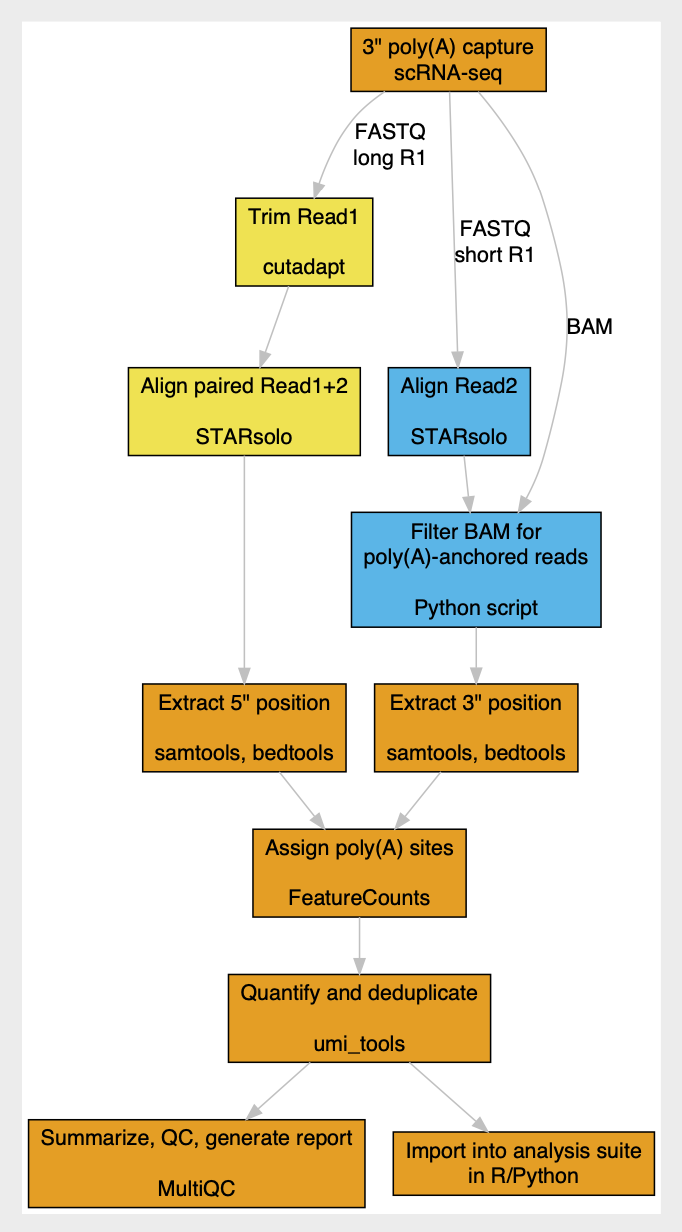
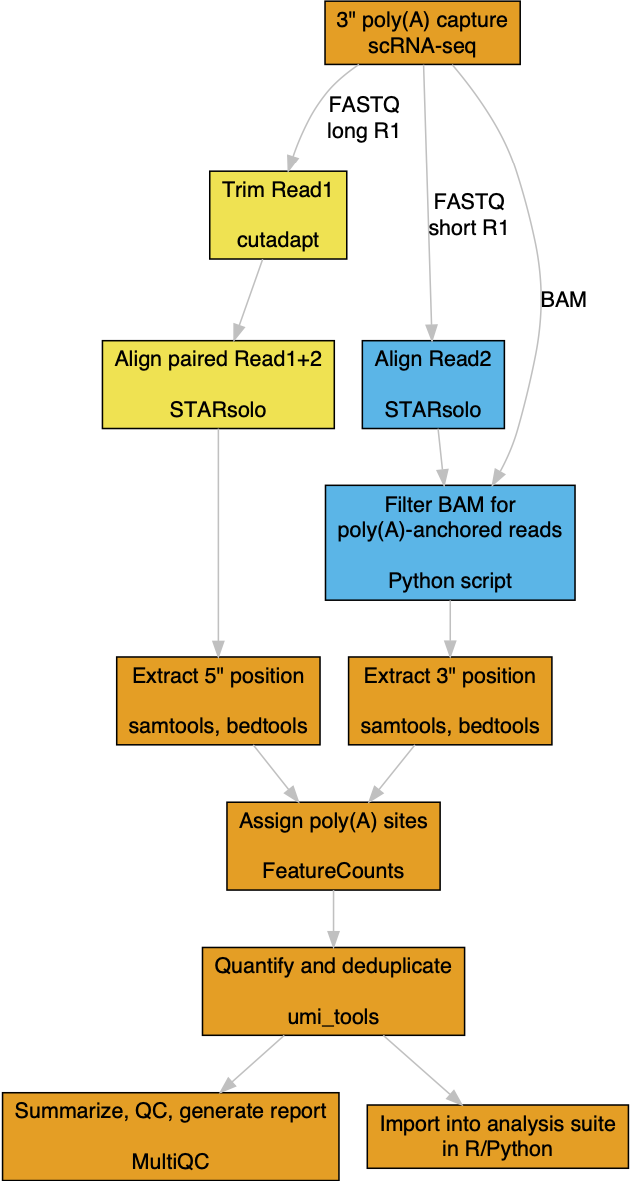
readme update

Changed region(s): [[0.0, 0.0, 1.0, 1.0], [0.813, 0.2439, 0.9334, 0.2743]]

diff --git a/README.md b/README.md
@@ -5,13 +5,46 @@
 ![](https://img.shields.io/badge/dynamic/json.svg?label=Downloads&url=https://raw.githubusercontent.com/raysinensis/clone_counts_public/main/scraps.json&query=downloads&colorB=brightgreen)
 <!-- badges: end -->
 
-scraps (**S**ingle **C**ell **R**NA **P**rocessing **S**oftware) extracts
-mRNA polyadenylation sites from "TVN"-primed single-cell RNA-seq libraries.
+### scraps extracts mRNA polyadenylation sites from "TVN"-primed single-cell RNA-seq libraries.
 
-Currently implemented as a <a href="https://snakemake.readthedocs.io/en/stable/">Snakemake</a> pipeline for 
+scraps (**S**ingle **C**ell **R**N**A** **P**rocessing **S**oftware) is currently implemented as a <a href="https://snakemake.readthedocs.io/en/stable/">Snakemake</a> pipeline for 
 10X Genomics 3' end v2/3 libraries (and other platforms with similar library structure, including Drop-seq, 
-Microwell-seq, and BD Rhapsody), scraps will eventually be expanded for analyzing a range of RNA processing 
+Microwell-seq, and BD Rhapsody). It will eventually be expanded for analyzing a range of RNA processing 
 changes in single-cell RNA-seq data.
+
+<img src="inst/flow.png" width="230" align="left" style="margin-right: 50px;margin-top:10px;margin-bottom:10px;">
+
+---
+
+## Example usage
+
+scraps requires the following as input (defined in config.yaml and sample_fastqs.tsv):
+
+  - 10X Genomics 3' v2/3 single-cell FASTQs or other platforms (with names "_R1.fastq.gz"" and "_R2fastq.gz"")
+  - A STAR genome index (must be generated with STAR 2.7.4a and above)
+  - A featureCounts reference (SAF-formatted <a href="http://exon.umdnj.edu/polya_db/">polya_db</a>, hg38 and mm10 files are included in ref subdirectory)
+
+To run test data, simply execute:
+```
+Snakemake --snakefile Snakefile \
+  --configfile config.yaml \
+  --resources total_impact=5 \
+  --keep-going
+```
+
+---
+
+## Supported scRNA-seq platforms
+| Platform | Lib diagram | Setting name | Test data |
+| :--------|:------------| :------------| :---------|
+| 10x Chromium V3 | [16 + 12 + 30](https://teichlab.github.io/scg_lib_structs/methods_html/10xChromium3.html) | chromiumV3 | ✓ |
+| 10x Chromium V2 | [16 + 10 + 30](https://teichlab.github.io/scg_lib_structs/methods_html/10xChromium3.html) | chromiumV2 | ✓ |
+| Drop-seq | [12 + 8 + 30](https://teichlab.github.io/scg_lib_structs/methods_html/Drop-seq.html) | dropseq | ✓ |
+| Microwell-seq | [6x3 + 6 + 30](https://teichlab.github.io/scg_lib_structs/methods_html/Microwell-seq.html) | microwellseq | ✓ |
+| BD Rhapsody | [9x3 + 8 + 18](https://teichlab.github.io/scg_lib_structs/methods_html/BD_Rhapsody.html) | bd | |
+| inDrop | [8 + 6 + 18](https://teichlab.github.io/scg_lib_structs/methods_html/inDrop.html) | indrop | |
+
+---
 
 ## Dependencies
 
@@ -25,17 +58,5 @@ scraps requires the following executables in your PATH:
   - <a href="http://subread.sourceforge.net">Subread</a> (developed with version 1.6.2)
   - <a href="https://multiqc.info">MultiQC</a> (developed with version 1.9)
 
-## Example usage
-
-scraps requires the following as input (defined in config.yaml):
-
-  - 10X Genomics 3' v2/3 single-cell FASTQs 
-  - Optional cell barcode whitelists for each sample, in FASTQ folder  (can be auto-generated in UMI-tools format, single column lists also compatible)
-  - A STAR genome index (compatible with cellranger indices <a href="https://cf.10xgenomics.com/supp/cell-exp/refdata-gex-GRCh38-2020-A.tar.gz">GRCh38</a> and <a href="https://cf.10xgenomics.com/supp/cell-exp/refdata-gex-mm10-2020-A.tar.gz">mm10</a>)
-  - A featureCounts reference (SAF-formatted <a href="http://exon.umdnj.edu/polya_db/">polya_db</a>, hg38 and mm10 files are included in ref subdirectory)
-
 See the <a href="https://snakemake.readthedocs.io/en/stable/">Snakemake</a> documentation
 for general information on executing and manipulating snakemake pipelines.
-
-## Workflow
-![workflow](inst/flow.png)
